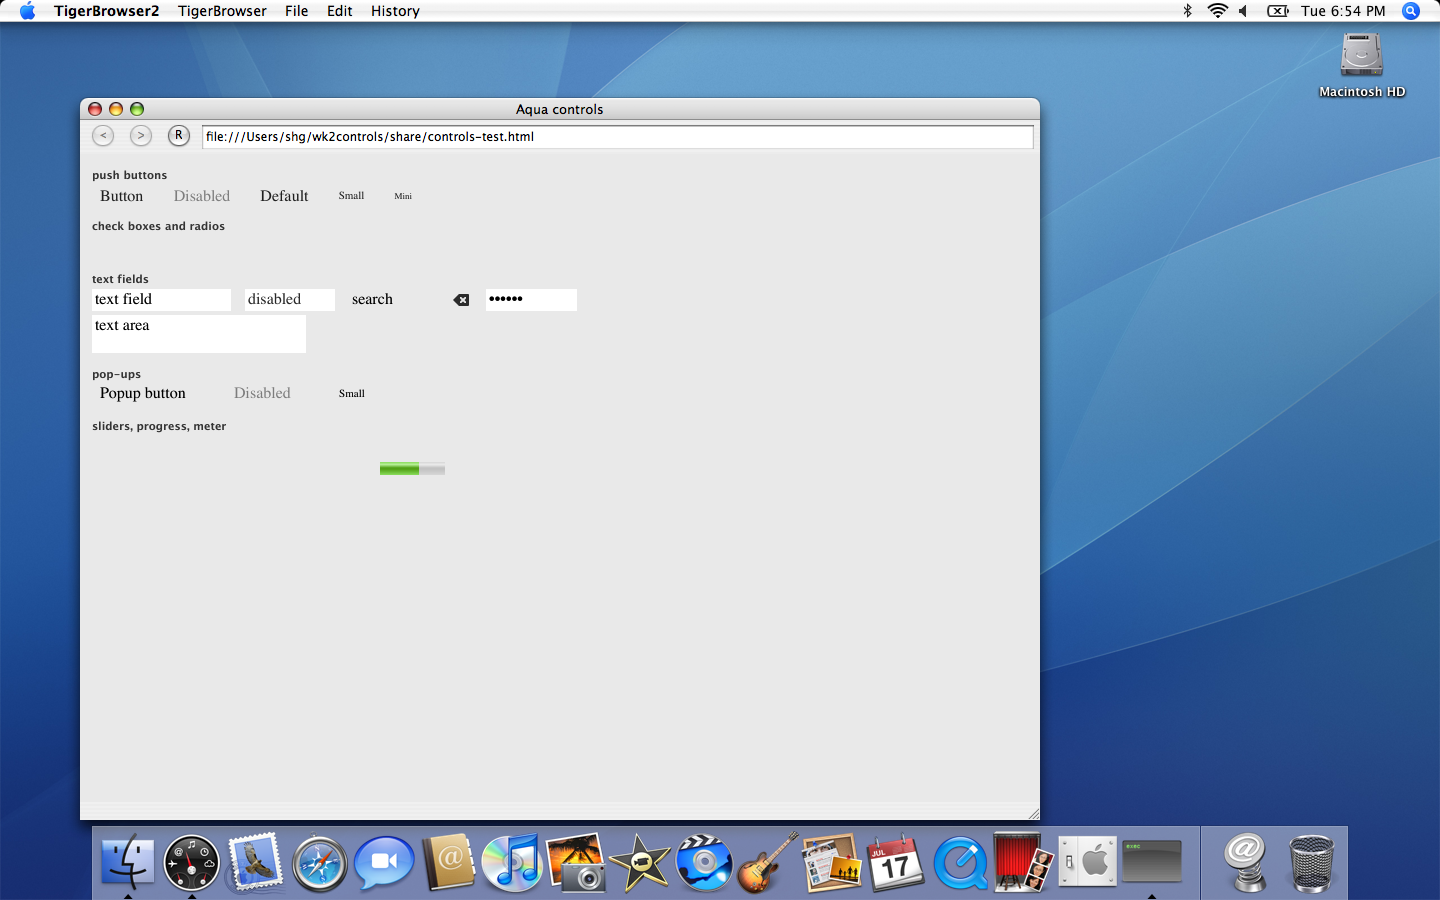
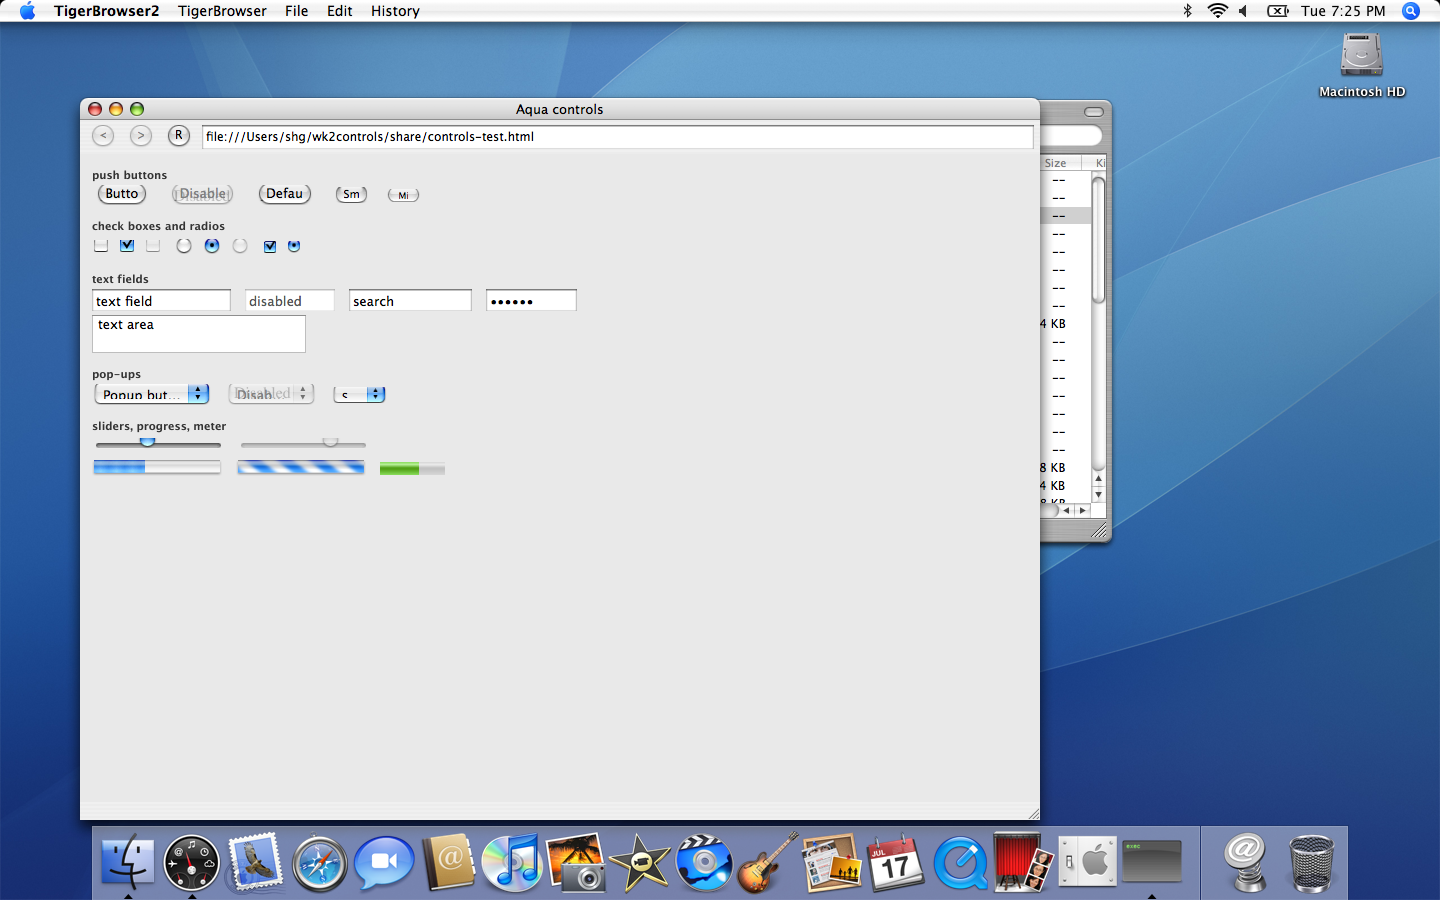
Staging scripts: kill only processes staged under /Users/shg/wk2*, abort when the box is busy; never touch the installed TigerBrowser.app
Claude-Session: https://claude.ai/code/session_01A2FWWg3nnaTgeqCW7RDgQS

diff --git a/spike/wk2web/controls-test.html b/spike/wk2web/controls-test.html
@@ -61,5 +61,25 @@
   <meter value="0.6"></meter>
 </div>
 
+
+<script>
+// The page's own view of what happened: every input/change event from any control, newest
+// first, echoed into the title so a screenshot of the title bar is the assertion.
+var log = [];
+function note(e) {
+  var t = e.target, v;
+  if (t.type === 'checkbox' || t.type === 'radio') v = t.checked ? 'on' : 'off';
+  else if (t.tagName === 'SELECT') v = t.selectedIndex + ':' + t.value;
+  else v = t.value;
+  log.unshift(e.type + ' ' + (t.tagName + '/' + (t.type || '')) + '=' + v);
+  document.title = log.slice(0, 3).join(' | ');
+}
+document.addEventListener('input', note, true);
+document.addEventListener('change', note, true);
+document.addEventListener('click', function (e) {
+  if (e.target.tagName === 'BUTTON' || e.target.type === 'submit')
+    { log.unshift('click ' + (e.target.value || e.target.textContent)); document.title = log.slice(0, 3).join(' | '); }
+}, true);
+</script>
 </body>
 </html>
